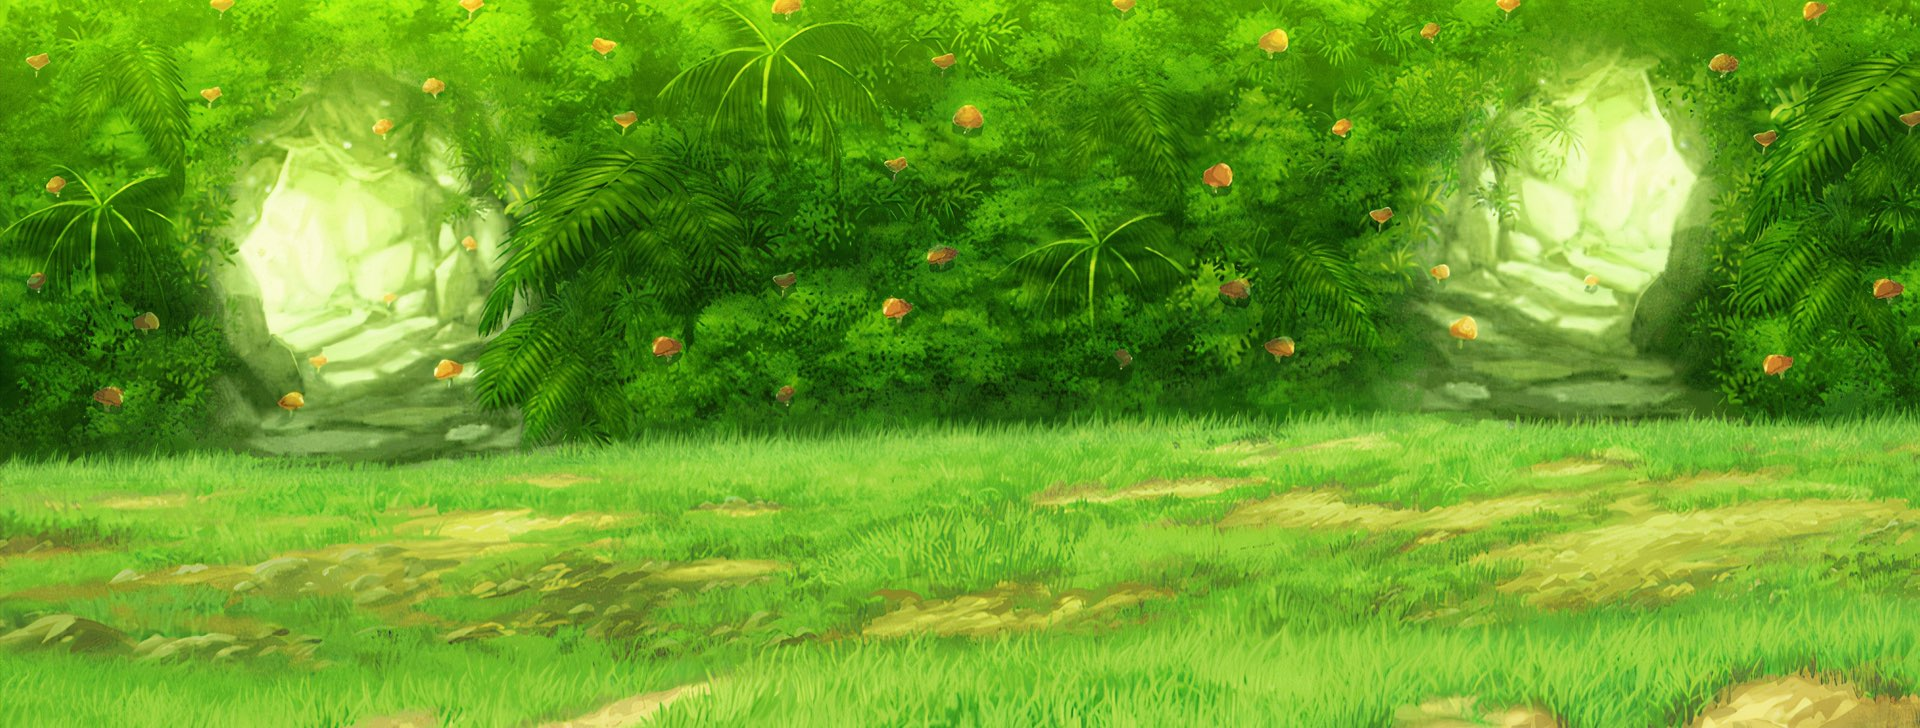
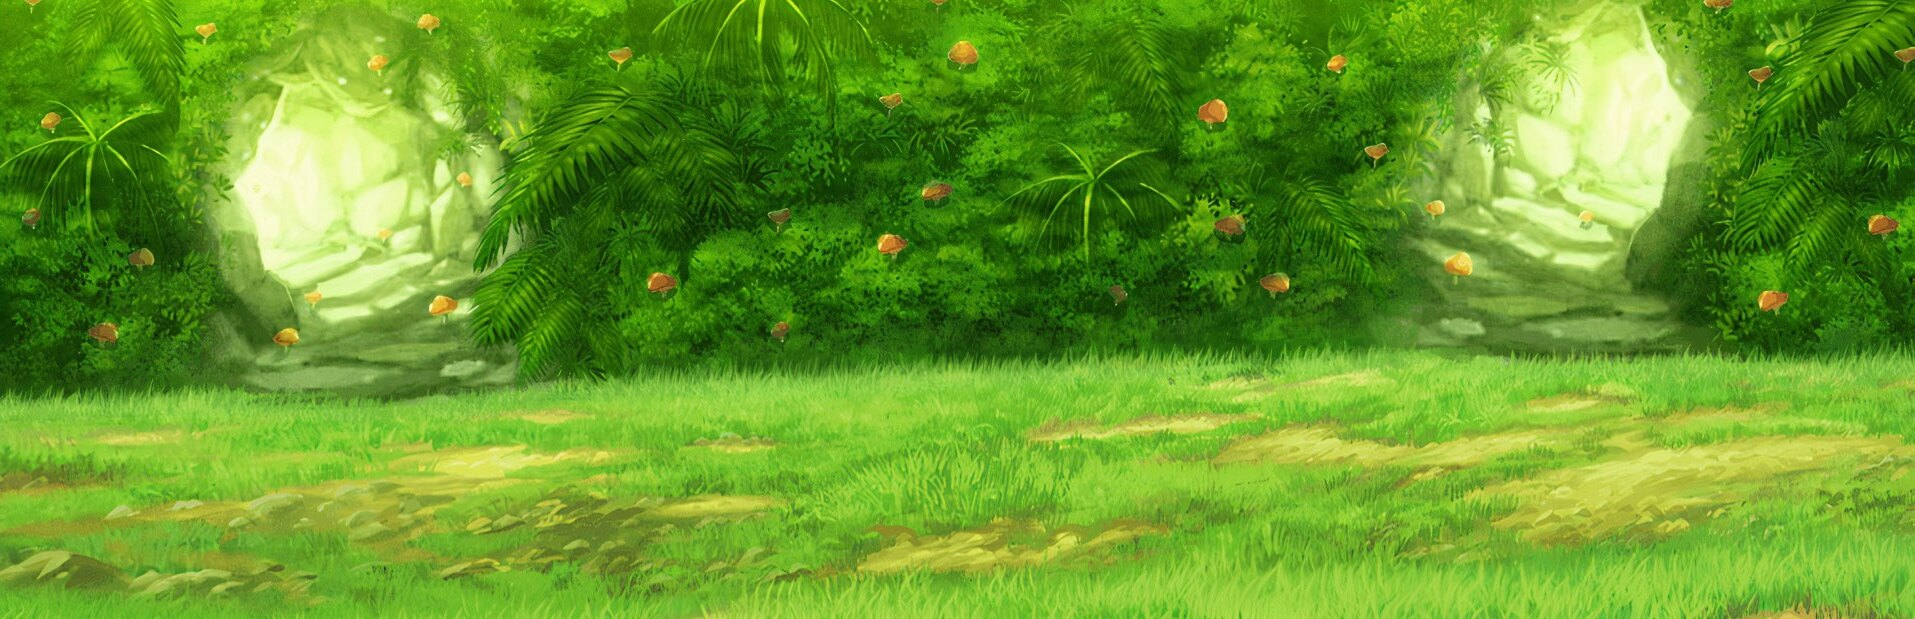
adjusted image and css to fit on 1920x1080 screen

diff --git a/src/components/controllers/enemyControllers.js b/src/components/controllers/enemyControllers.js
@@ -17,8 +17,8 @@ const bite = {
 
 const goblin = {
 	name: "Goblin",
-	maxHealth: 25,
-	experience: 1000,
+	maxHealth: 30,
+	experience: 500,
 	actions: [hack, bite],
 	image: goblinImage
 };
@@ -44,7 +44,7 @@ const stomp = {
 
 const ogre = {
 	name: "Ogre",
-	maxHealth: 30,
+	maxHealth: 50,
 	experience: 1000,
 	actions: [club, bash, stomp],
 	image: ogreImage
@@ -74,8 +74,8 @@ const weakness = {
 
 const slime = {
 	name: "Slime",
-	maxHealth: 20,
-	experience: 1000,
+	maxHealth: 24,
+	experience: 500,
 	actions: [slimed, envelop, weakness],
 	image: slimeImage
 };
@@ -90,13 +90,13 @@ const slack = {
 const fite = {
 	forecast: "The goblin gnashes his teeth together.",
 	message: "The goblin bit you!",
-	value: 5
+	value: 10
 };
 
 const boblin = {
 	name: "Boblin",
-	maxHealth: 50,
-	experience: 1000,
+	maxHealth: 70,
+	experience: 700,
 	actions: [slack, fite],
 	image: goblinImage
 };
@@ -121,8 +121,8 @@ const tomp = {
 
 const bogre = {
 	name: "Bogre",
-	maxHealth: 30,
-	experience: 1000,
+	maxHealth: 120,
+	experience: 1500,
 	actions: [blub, pash, tomp],
 	image: ogreImage
 };

diff --git a/src/App.css b/src/App.css
@@ -103,12 +103,12 @@ body {
 	width: 226px;
 	height: 300px;
 	transform: scalex(-1);
-	margin-top: 300px;
+	margin-top: 240px;
 }
 
 .enemy-combat-div {
 	position: absolute;
-	bottom: 10%;
+	bottom: 20%;
 	right: 0;
 }
 
@@ -119,6 +119,10 @@ body {
 	border: 1px black dotted;
 }
 
+.combat-interaction-container {
+	position: relative;
+	bottom: 111px;
+}
 .combat-interaction {
 	display: flex;
 	justify-content: space-evenly;
@@ -146,6 +150,7 @@ body {
 	border: black 1px solid;
 	background-color: white;
 	padding: 10px;
+	height: 19px;
 	margin: auto;
 	width: 1900px;
 }

diff --git a/src/components/combatInteraction.js b/src/components/combatInteraction.js
@@ -133,12 +133,12 @@ export default function CombatInteraction(props) {
 			{combatMessage ? (
 				<div className="combat-message">{combatMessage}</div>
 			) : (
-				<div></div>
+				<div className="combat-message"></div>
 			)}
 			<div className="combat-interaction">
 				<div className="turn-resource-container">
-					<div>Turn: {props.turn}</div>{" "}
 					<div>Dungeon Floor: {props.dungeonFloor}</div>
+					<div>Turn: {props.turn}</div>{" "}
 					<div>
 						<img src={swordImg} alt="sword" /> {props.combatResources.sword}
 					</div>

diff --git a/src/components/CombatSkills.js b/src/components/CombatSkills.js
@@ -293,7 +293,7 @@ export default function CombatSkills(props) {
 				props.setCombatMessage(`${props.enemy.actions[randomNum].forecast}`);
 				setTimeout(() => {
 					props.setCombatMessage("");
-				}, 1500);
+				}, 2500);
 			}, 1500);
 		}
 	}, [props.turn]);
@@ -320,7 +320,6 @@ export default function CombatSkills(props) {
 			<br></br>
 			<div>Draw pile: {props.drawPileLength}</div>
 			<div>Discard pile: {props.discardPileLength}</div>
-			<div>{strengthBuff}</div>
 		</div>
 	);
 }

diff --git a/src/App.js b/src/App.js
@@ -58,7 +58,7 @@ function App() {
 
 	const [level, setLevel] = useState(1);
 	const [experience, setExperience] = useState(0);
-	const [expToNextLevel, setExpToNextLevel] = useState(1000);
+	const [expToNextLevel, setExpToNextLevel] = useState(500);
 	const [health, setHealth] = useState(100);
 	const [maxHealth, setMaxHealth] = useState(100);
 	const [strength, setStrength] = useState(10);

diff --git a/src/components/Grid.js b/src/components/Grid.js
@@ -10,9 +10,9 @@ class Grid extends React.Component {
 	makeSquares = () => {
 		const tiles = [
 			"red",
-			// "red",
 			"red",
-			"yellow",
+			"red",
+			// "yellow",
 			"yellow",
 			"green",
 			"green",

diff --git a/src/components/controllers/levelControllers.js b/src/components/controllers/levelControllers.js
@@ -7,7 +7,7 @@ export const levelTables = {
 		skills: "Holy Strength"
 	},
 	3: {
-		expToNextLevel: 9999,
+		expToNextLevel: 99999,
 		maxHealth: 20,
 		strength: 2,
 		wisdom: 1,

diff --git a/src/components/controllers/combatControllers.js b/src/components/controllers/combatControllers.js
@@ -4,7 +4,7 @@ const slash = {
 	name: "slash",
 	message: "You slashed the enemy!",
 	actionType: "attack",
-	value: 3,
+	value: 1,
 	cost: 1
 };
 
